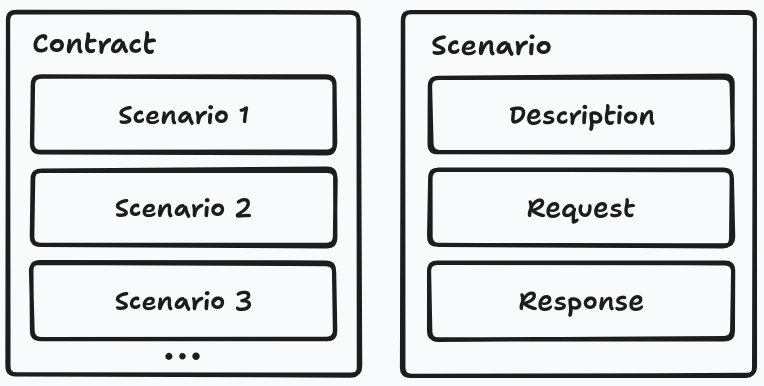
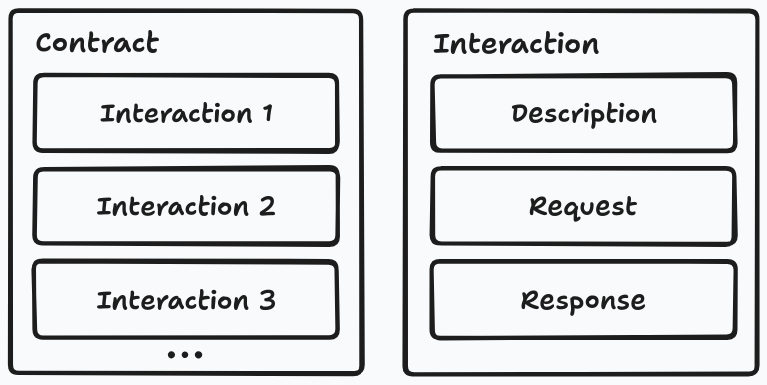
Renamed Scenario to Interaction in contracts-briefly

diff --git a/pages/contracts-briefly.html b/pages/contracts-briefly.html
@@ -16,28 +16,32 @@
             <h1>A Brief Introduction to Contracts</h1>
             <p><i>Builds on the concepts introduced in <a href="cdct-briefly.html">A Brief Introduction to CDCT</a>.</i></p>
 
-            <p>Communication in CDCT is defined as the Consumer sending a request to the Provider, followed by the Provider sending a response to the Consumer. A Contract is essentially made up of a number of these exchanges, which we will call Scenarios. Each Scenario additionally has a brief description of what happens in the Scenario. See the picture below for an illustration.</p>
+            <p>Communication in CDCT is defined as the Consumer sending a request to the Provider, followed by the Provider sending a response to the Consumer. A Contract is essentially made up of a number of these exchanges, which we will call Interactions. Each Interaction additionally has a brief description of what happens in the Interaction. See the picture below for an illustration.</p>
 
             <img src="../images/contracts/ContractScenario.png"
-                 alt="Contract and Scenario structure"
+                 alt="Contract and Interaction structure"
                  class="zoomable" />
 
             <button type="button" class="expandable-button">For Developers</button>
             <div class="expandable-content">
                 <p>A more accurate domain model displayed as an UML class diagram can be seen here.</p>
-                <img src="../images/contracts/ContractScenarioUml.drawio.png"
-                     alt="Contract and Scenario UML Diagram"
+                <img src="../images/contracts/ContractScenarioUml.png"
+                     alt="Contract and Interaction UML Diagram"
                      class="zoomable" />
             </div>
 
-            <p>In a Scenario, the request section is a concrete example of a real request, and the response section is a number of rules that the response must follow. The interpretation is that if the Provider receives the example request, its response must follow the response rules. The response section additionally has an example of a response that follows the rules.</p>
-            <p>This means that every Scenario actually is a test — and this is indeed how the Provider proves that it obeys the contract. It runs every Scenario as a test where it pretends to receive the example request, and then it checks that its responses obey the rules.</p>
+            <p>In a Interaction, the request section is a concrete example of a real request, and the response section is a number of rules that the response must follow. The interpretation is that if the Provider receives the example request, its response must follow the response rules. The response section additionally has an example of a response that follows the rules.</p>
+            <p>This means that every Interaction actually is a test — and this is indeed how the Provider proves that it obeys the contract. It runs every Interaction as a test where it pretends to receive the example request, and then it checks that its responses obey the rules.</p>
             <p>However, there is one problem not yet adressed by this model: The same request might give two completely different answers depending on the state of Provider. Imagine an example request that asks for the information of a user called Oliver. We write rules that dictate that the response must include birthday, email, address, etc. However, if there is no user called Oliver when the Provider runs the test, there will be no such information to give — we might get an empty response or even an error instead.</p>
-            <p>This problem is solved by adding one additional section to the Scenario: A so-called Provider State. This is a sentence that describes the precondition for the test in human language. The people developing the Provider then have to make sure that their tests know what to do for every Provider State in their Contracts. For our example, the Provider State might be "given a user called Oliver exists". When the Provider reads this text, it knows to create such a user, which will allow it to respond properly.</p>
+            <p>This problem is solved by adding one additional section to the Interaction: A so-called Provider State. This is a sentence that describes the precondition for the test in human language. The people developing the Provider then have to make sure that their tests know what to do for every Provider State in their Contracts. For our example, the Provider State might be "given a user called Oliver exists". When the Provider reads this text, it knows to create such a user, which will allow it to respond properly.</p>
             <button type="button" class="expandable-button">For Developers</button>
             <div class="expandable-content">
-                <p>This structure makes writing and interpreting Contracts very similar to Gherkin. Its structure of Scenario, Given, When, and Then closely matches the Description, Provider State, Request, and Response of a Contract Section.</p>
+                <p>This structure makes writing and interpreting Contracts very similar to Gherkin. Its structure of Interaction, Given, When, and Then closely matches the Description, Provider State, Request, and Response of a Contract Section.</p>
             </div>
+            <p>With the Provider State included, an Interaction looks like this.</p>
+            <img src="../images/contracts/Interaction.png"
+                 alt="Interaction structure"
+                 class="zoomable" />
         </main>
 
     </div>
